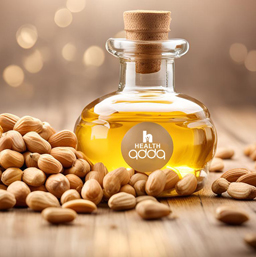
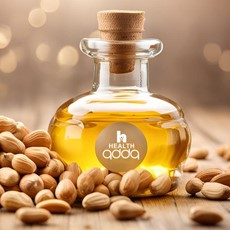
init

diff --git a/index.html b/index.html
@@ -10,7 +10,7 @@
 		<meta property="og:title" content="Health Adda Oils" />
 		<meta property="og:description" content="Pure Cold Pressed Oils!! Discover the difference of Quality Oils." />
 		<meta property="og:url" content="https://healthadda.github.io/" />
-		<meta property="og:image" content="./img/TN2.jpg" />
+		<meta property="og:image" content="./img/GN_small.jpg" />
 		
         <link
             rel="stylesheet"
